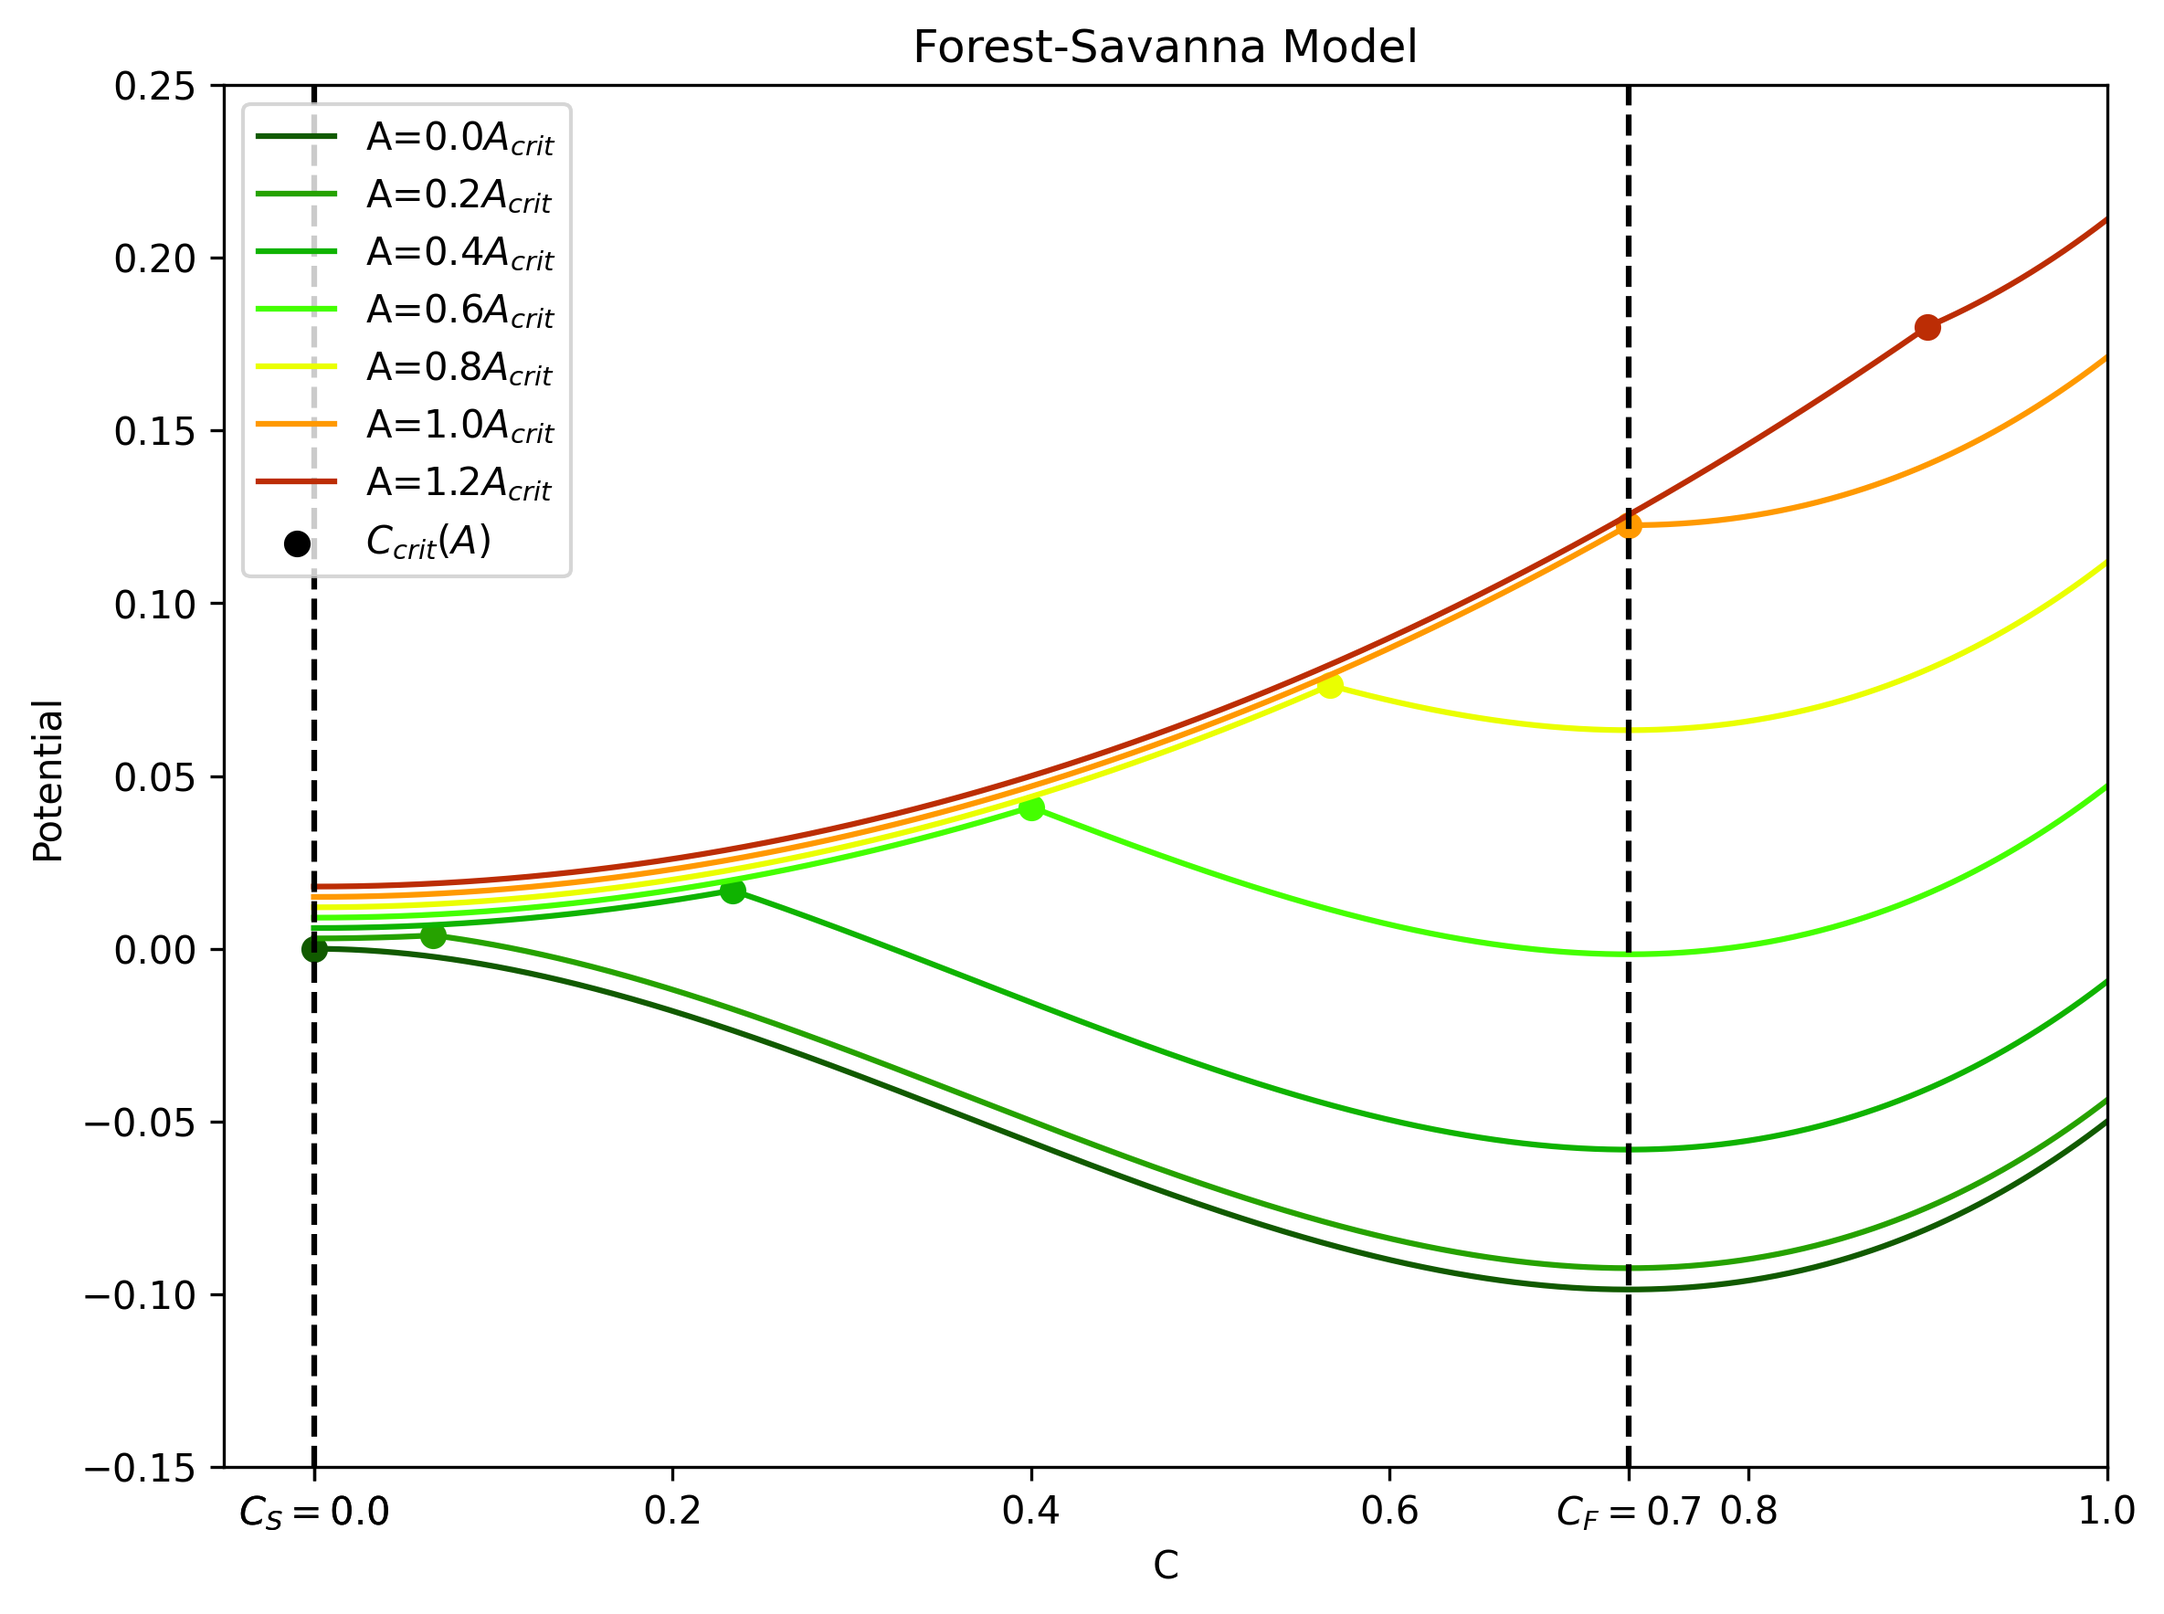
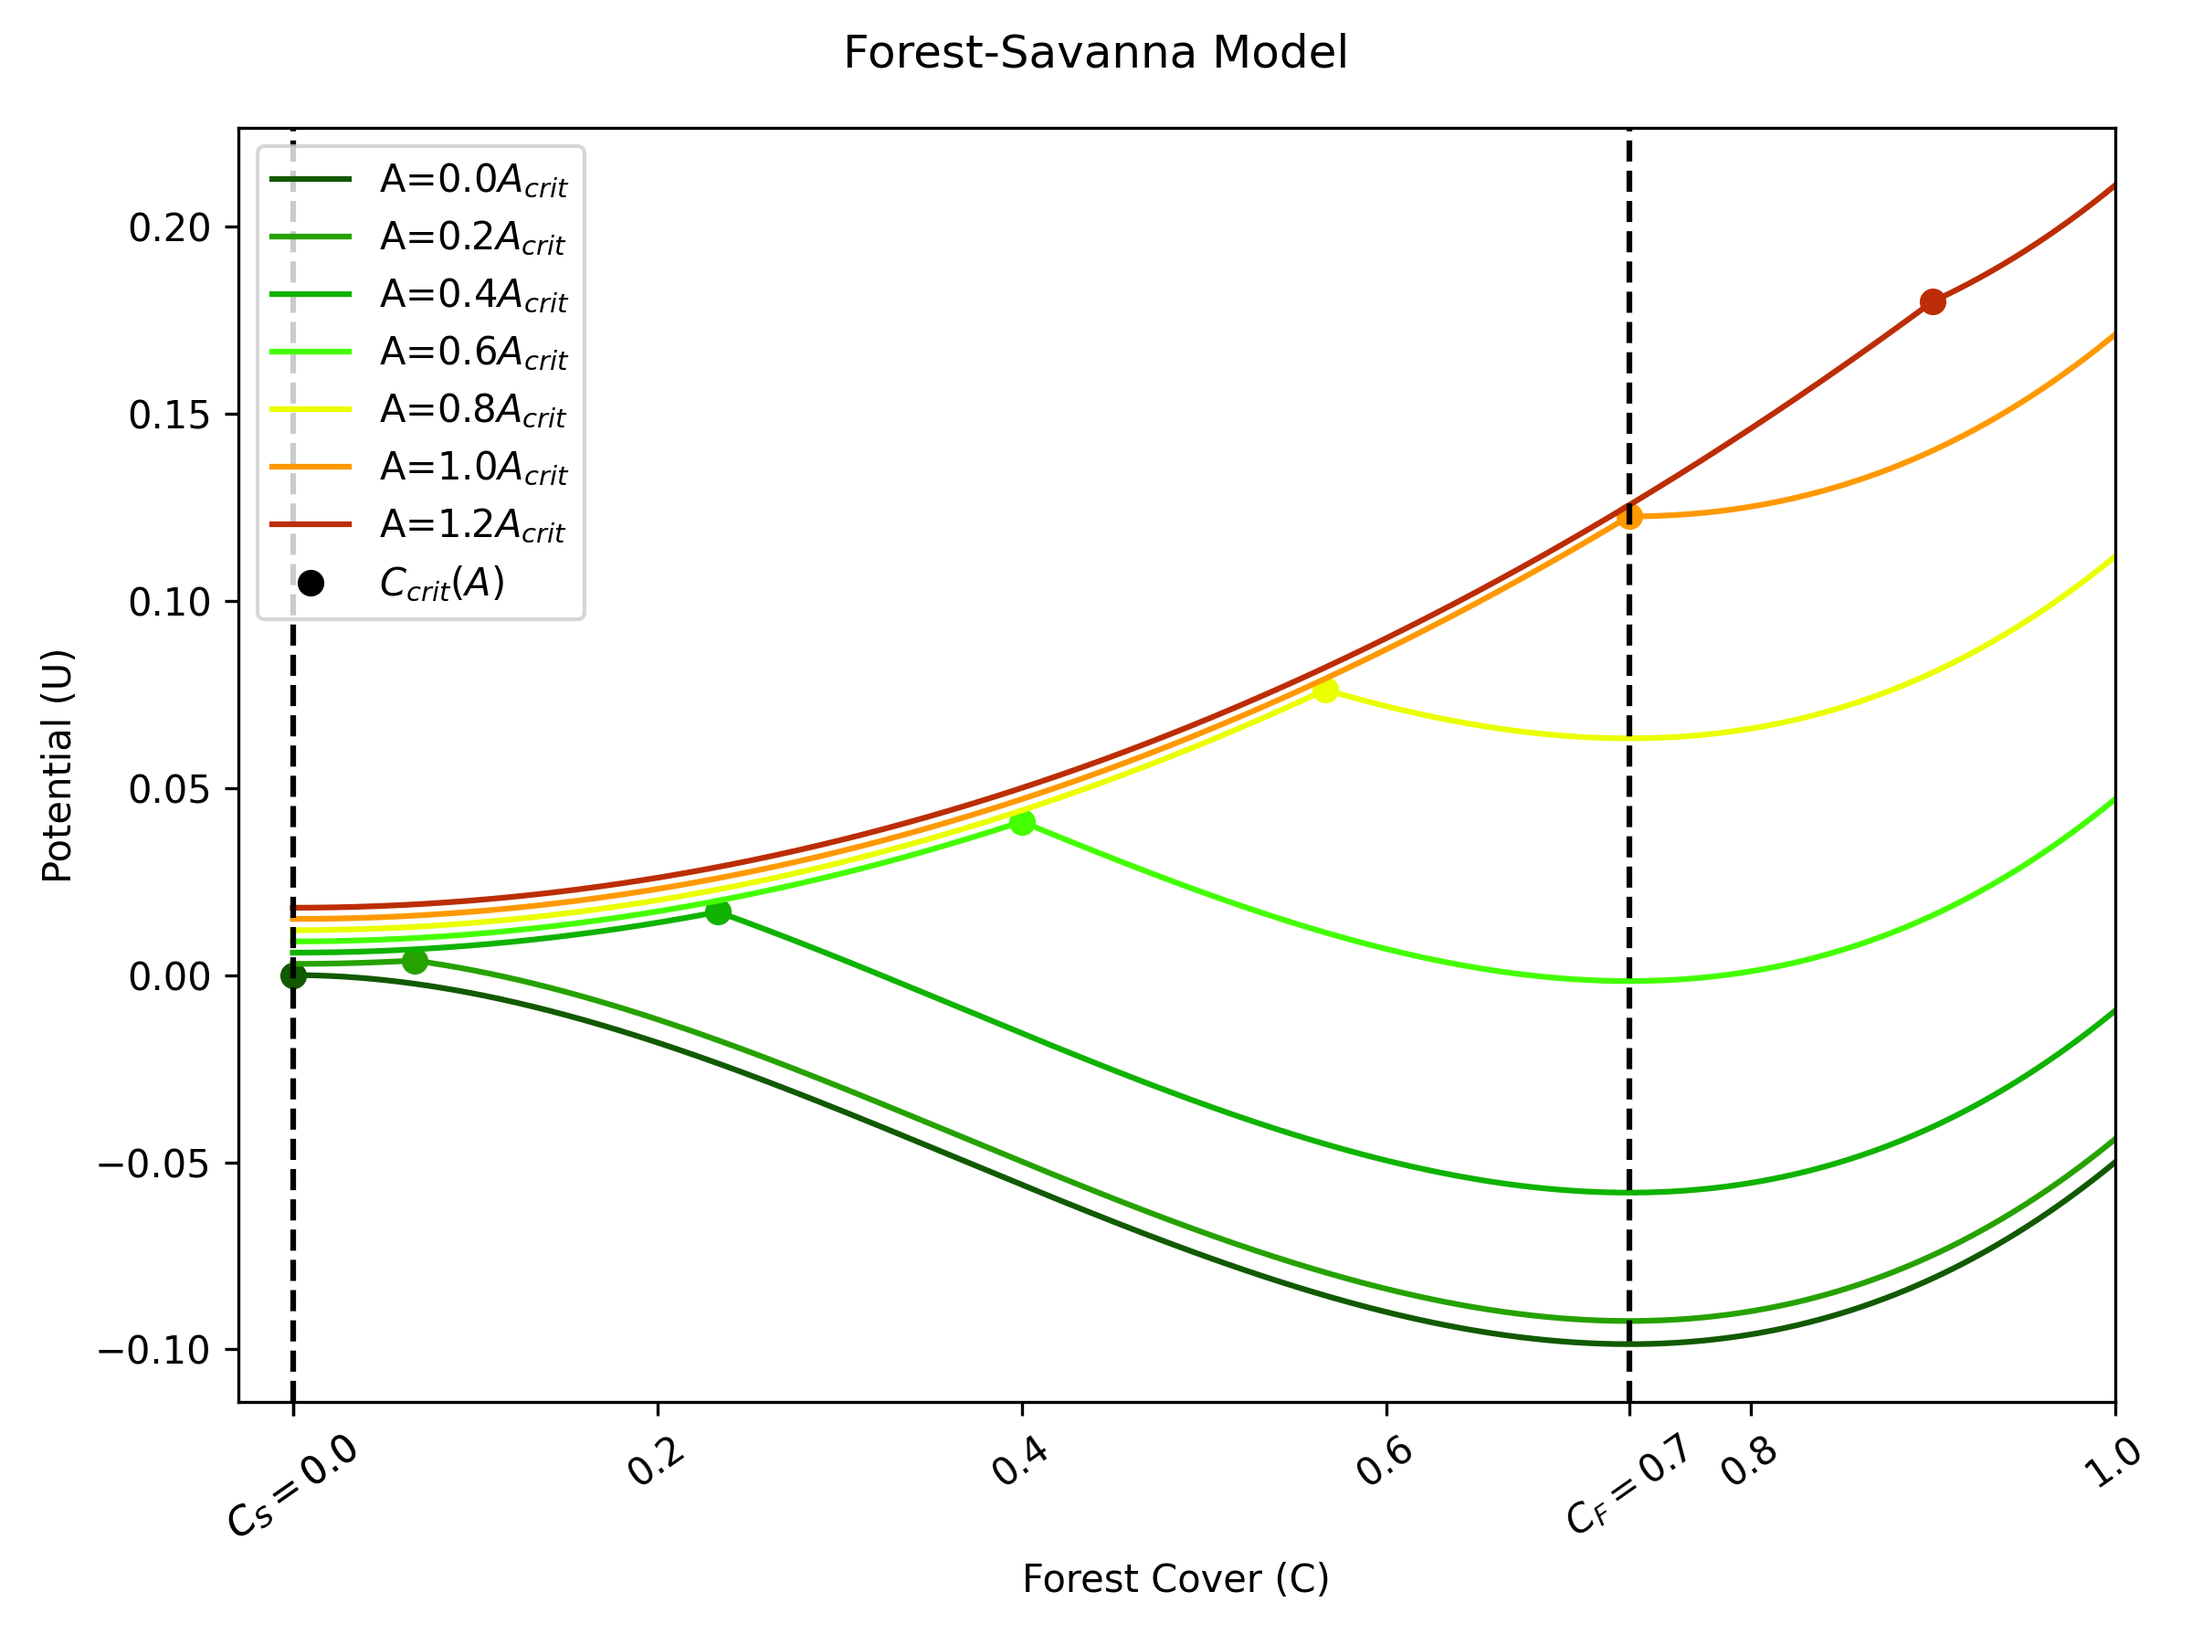
Alle figs über Funktionen

diff --git a/src/main.py b/src/main.py
@@ -16,7 +16,6 @@ def forest_cover_derivative(C_crit, x, r, C, A):
 
     return result
 
-
 def forest_cover(C_crit, x, r, m, b, C, A):
     """Forest cover state function."""
     C = np.asarray(C)
@@ -28,7 +27,6 @@ def forest_cover(C_crit, x, r, m, b, C, A):
     result[mask] = 1
 
     return result
-
 
 def calc_C_crit(A,m,b):
     """Critical forest cover threshold."""
@@ -43,40 +41,95 @@ def calc_A_crit(x,r,m,b):
 def calc_U(x,r,C_crit,C):
     return x/2*C**2+ (C>C_crit)*(r/3 * (C**3-C_crit**3) - r/2 *(C**2-C_crit**2))
 
-def make_plot_noarrows(figsize,A,C,func_cover,func_crit,cmap):
-            # detect global variable use
-        import inspect
-        globals_used = set(make_plot_noarrows.__code__.co_names) - set(locals())
-        print(globals_used)
-        AA, CC = np.meshgrid(A, C)
-        C_crit=func_crit(A)
-        State=func_cover(C_crit=C_crit,C=CC,A=AA)
-        fig, ax = plt.subplots(figsize=figsize)
-        ax.pcolormesh(AA, CC,State, shading='auto', cmap=cmap)
-        plt.plot(A,C_crit,color='white')
-        plt.plot([0,calc_A_crit(x,r,m,b)],[calc_C_F(x,r),calc_C_F(x,r)],color='white')
-        # plt.scatter([calc_A_crit(x,r,m,b)],[calc_C_F(x,r)],color='white')
-        # plt.plot([calc_A_crit(x,r,m,b),calc_A_crit(x,r,m,b)],[0,1],linestyle='--',color='white')
-        # plt.plot([0,1.3],[calc_C_F(x,r),calc_C_F(x,r)],linestyle='--',color='white')
-        # plt.ylim(0,1)
-        # plt.xlabel(xlabel)
-        # plt.ylabel(ylabel)
-        # plt.title(title)
-        # ticks =  [calc_A_crit(x,r,m,b)]
-        # labels = [ r"$A_{crit}$"]
-        # plt.xticks(ticks, labels)
-        # ticks = list(plt.yticks()[0]) + [calc_C_F(x,r)]
-        # labels = [*plt.yticks()[1], r"$C_F=$"+format(calc_C_F(x,r),".1f")]
-        # plt.yticks(ticks, labels)
-        # # cbar = plt.colorbar(mesh)
-        # # cbar.set_label(cbar_label)
-        # legend_handles = [
-        #     matplotlib.patches.Patch(color=cmap.colors[0], label="Savanna"),
-        #     matplotlib.patches.Patch(color=cmap.colors[1], label="Forest")
-        # ]
-        # plt.legend(handles=legend_handles, title="State", loc="upper right")
-        plt.tight_layout()
-        return fig
+def make_plot_noarrows(A,C,func_cover,func_crit,C_F,cmap=ListedColormap(['lightgray','grey']),xlabel=None,ylabel=None,title=None,figsize=None):
+        
+    AA, CC = np.meshgrid(A, C)
+    C_crit=func_crit(A)
+    A_crit=A[np.argmin(abs(C_crit-C_F))]
+    State=func_cover(C_crit=C_crit,C=CC,A=AA)
+
+    fig, ax = plt.subplots(figsize=figsize)
+    ax.pcolormesh(AA, CC,State, shading='auto', cmap=cmap)
+    ax.plot(A,C_crit,color='white')
+    ax.plot([0,A_crit],[C_F,C_F],color='white')
+    
+    ax.plot([A_crit,A_crit],[0,1],linestyle='--',color='white')
+    ax.plot([0,np.max(A)],[C_F,C_F],linestyle='--',color='white')
+
+    ax.scatter([A_crit],[C_F],color='white')
+    
+    xticks =  [A_crit]
+    xlabels = [ r"$A_{crit}$"]
+    ax.set_xticks(xticks, xlabels)
+    yticks = list(ax.get_yticks()) + [C_F]
+    ylabels = [*ax.get_yticklabels(), r"$C_F=$"+format(C_F,".1f")]
+    ax.set_yticks(yticks, ylabels)
+
+    ax.set_xlabel(xlabel)
+    ax.set_ylabel(ylabel)
+    fig.suptitle(title)
+
+    ax.set_ylim(0,1)
+
+    legend_handles = [
+        matplotlib.patches.Patch(color=cmap.colors[0], label="Savanna"),
+        matplotlib.patches.Patch(color=cmap.colors[1], label="Forest")
+    ]
+    ax.legend(handles=legend_handles, title="State", loc="upper right")
+    fig.tight_layout()
+    
+    return fig,ax
+
+def make_plot_arrows(A,C,func_cover,func_cover_derivative,func_crit,C_F,resolution_sparse=20,cmap=ListedColormap(['lightgray','grey']),xlabel=None,ylabel=None,title=None,figsize=None):
+        
+    fig,ax=make_plot_noarrows(figsize=figsize,
+                    A=A, C=C,
+                    func_cover=func_cover,
+                    func_crit=func_crit,
+                    C_F=C_F,
+                    cmap=cmap,
+                    xlabel=xlabel,
+                    ylabel=ylabel,
+                    title=title,)
+    
+    A_sparse=np.linspace(np.min(A),np.max(A),resolution_sparse)
+    C_sparse=np.linspace(np.min(C),np.max(C),resolution_sparse)
+    C_crit_sparse=func_crit(A_sparse)
+    AA_sparse, CC_sparse = np.meshgrid(A_sparse, C_sparse)
+    Direction_sparse=func_cover_derivative(C_crit=C_crit_sparse,C=CC_sparse,A=AA_sparse)
+    ax.quiver(AA_sparse,CC_sparse, 0*np.ones_like(AA_sparse), Direction_sparse)
+
+    return fig,ax
+
+def make_plot_potential(A_range,func_crit,func_potential,A_crit,C_F,colors,xlabel=None,ylabel=None,title=None,figsize=None,):
+
+    fig, ax = plt.subplots(figsize=figsize)
+
+    for A_int,i,col in zip(A_range,range(len(A_range)),colors):
+        C_crit_int=func_crit(A_int)
+        ax.plot(C,func_potential(C_crit=C_crit_int,C=C)+i*3e-3, label=r'A='+format(A_int/A_crit, ".1f")+r'$A_{crit}$', color=col)
+        ax.scatter(C_crit_int,func_potential(C_crit=C_crit_int,C=C_crit_int)+i*3e-3, color=col)
+    ax.axvline(C_F, linestyle='--', color='black')
+    ax.axvline(0, linestyle='--',color='black')
+
+    xticks = list(ax.get_xticks()) + [0.0, C_F]
+    xlabels = [*ax.get_xticklabels(), r"$C_S=$"+format(0.0,".1f"), r"$C_F=$"+format(C_F,".1f")]
+ 
+    ax.set_xticks(xticks, xlabels, rotation=35)
+    ax.set_xlim(-3e-2,1)
+
+    circle_marker = matplotlib.lines.Line2D([], [], marker='o',color='black',markersize=6,linestyle='None',label=r'$C_{crit}(A)$')
+    handles,_x = ax.get_legend_handles_labels()
+    handles.append(circle_marker)
+    ax.legend(handles=handles, loc='upper left')
+    
+    ax.set_xlabel(xlabel)
+    ax.set_ylabel(ylabel)
+    fig.suptitle(title)
+    fig.tight_layout()
+
+    return fig,ax
+
 # -------------------------------
 # Parameters
 # -------------------------------
@@ -93,23 +146,22 @@ C_min, C_max = 0, 1.0
 A = np.linspace(A_min, A_max, resolution)
 C = np.linspace(C_min, C_max, resolution)
 
-C_crit = calc_C_crit(A,m,b)
+A_range=np.linspace(0,calc_A_crit(x,r,m,b)*1.2,7)
 
-A_sparse=np.linspace(0,1.3,resolution_sparse)
-C_sparse=np.linspace(0,1.0,resolution_sparse)
-C_crit_sparse=calc_C_crit(A_sparse,m,b)
-
-# Create mesh grid
-# AA, CC = np.meshgrid(A, C)
-# AA_sparse, CC_sparse = np.meshgrid(A_sparse, C_sparse)
-
-# State=forest_cover(C_crit,x,r,m,b,CC,AA)
-# Direction_sparse=(forest_cover_derivative(C_crit_sparse,x,r,CC_sparse,AA_sparse))
 # -------------------------------
 # Plot settings
 # -------------------------------
 figsize = (8, 6)
 cmap = ListedColormap(["#ff9900","#006635"])
+colors=[
+    "#115a00",
+    "#26a200",
+    "#0fb300",
+    "#44ff00",
+    "#eaff00",
+    "#ff9900",
+    "#bc2d05",
+    ]
 output_file = "results/test.png"
 output_file_arrows = "results/test_arrows.png"
 output_file_potential = "results/test_potential.png"
@@ -118,79 +170,46 @@ xlabel = "Aridity (A)"
 ylabel = "Forest Cover (C)"
 title = "Forest-Savanna Model"
 
-# # Optional: Werte für Farblegende
-# cbar_label = "State (-1: low cover, 1: high cover)"
-
 # -------------------------------
-# Plot
+# Plotting
 # -------------------------------
-# plt.figure(figsize=figsize)
-# mesh = plt.pcolormesh(AA, CC, State, shading="auto", cmap=cmap)
-# plt.pcolormesh(AA, CC,State, shading='auto', cmap=cmap)#, norm=norm)
-# plt.plot(A,C_crit,color='white')
-# plt.plot([0,calc_A_crit(x,r,m,b)],[calc_C_F(x,r),calc_C_F(x,r)],color='white')
-# plt.scatter([calc_A_crit(x,r,m,b)],[calc_C_F(x,r)],color='white')
-# plt.plot([calc_A_crit(x,r,m,b),calc_A_crit(x,r,m,b)],[0,1],linestyle='--',color='white')
-# plt.plot([0,1.3],[calc_C_F(x,r),calc_C_F(x,r)],linestyle='--',color='white')
-# plt.ylim(0,1)
-# plt.xlabel(xlabel)
-# plt.ylabel(ylabel)
-# plt.title(title)
-# ticks =  [calc_A_crit(x,r,m,b)]
-# labels = [ r"$A_{crit}$"]
-# plt.xticks(ticks, labels)
-# ticks = list(plt.yticks()[0]) + [calc_C_F(x,r)]
-# labels = [*plt.yticks()[1], r"$C_F=$"+format(calc_C_F(x,r),".1f")]
-# plt.yticks(ticks, labels)
-# # cbar = plt.colorbar(mesh)
-# # cbar.set_label(cbar_label)
-# legend_handles = [
-#     matplotlib.patches.Patch(color=cmap.colors[0], label="Savanna"),
-#     matplotlib.patches.Patch(color=cmap.colors[1], label="Forest")
-# ]
-# plt.legend(handles=legend_handles, title="State", loc="upper right")
-# plt.tight_layout()
-fig=make_plot_noarrows(figsize=figsize,
-                       A=A, C=C,
-                       func_cover=partial(forest_cover,x=x,r=r,m=m,b=b),
-                       func_crit=partial(calc_C_crit,m=m,b=b),
-                       func_stable=partial(calc_C_F,x=x,r=r)
-                       cmap=cmap,)
+fig,_=make_plot_noarrows(A=A, C=C,
+                         func_cover=partial(forest_cover,x=x,r=r,m=m,b=b),
+                         func_crit=partial(calc_C_crit,m=m,b=b),
+                         C_F=calc_C_F(x=x,r=r),
+                         cmap=cmap,
+                         xlabel=xlabel,
+                         ylabel=ylabel,
+                         title=title,
+                         figsize=figsize,
+                        )
 fig.savefig(output_file, dpi=300)
-# plt.show()
+plt.close()
 
-# plt.quiver(AA_sparse,CC_sparse, 0*np.ones_like(AA_sparse), Direction_sparse)
+fig,_=make_plot_arrows(A=A, C=C,
+                       func_cover=partial(forest_cover,x=x,r=r,m=m,b=b),
+                       func_cover_derivative=partial(forest_cover_derivative, x=x, r=r),
+                       func_crit=partial(calc_C_crit,m=m,b=b),
+                       C_F=calc_C_F(x=x,r=r),
+                       cmap=cmap,
+                       xlabel=xlabel,
+                       ylabel=ylabel,
+                       title=title,
+                       figsize=figsize,
+                       )
+fig.savefig(output_file_arrows, dpi=300)
+plt.close()
 
-# plt.tight_layout(,
-# plt.savefig(output_file_arrows, dpi=300)
-
-# plt.cla()
-# A_range=np.linspace(0,calc_A_crit(x,r,m,b)*1.2,7)
-# colors=[
-#     "#bc2d05",
-#     "#ff9900",
-#     "#eaff00",
-#     "#44ff00",
-#     "#0fb300",
-#     "#26a200",
-#     "#115a00",
-#     ]
-# for A_int,i,col in zip(A_range,range(7),reversed(colors)):
-#     C_crit_int=calc_C_crit(A_int,m,b)
-#     plt.plot(C,calc_U(x,r,C_crit_int,C)+i*3e-3, label=r'A='+format(A_int/calc_A_crit(x,r,m,b), ".1f")+r'$A_{crit}$', color=col)
-#     plt.scatter(C_crit_int,calc_U(x,r,C_crit_int,C_crit_int)+i*3e-3, color=col)
-# plt.plot([calc_C_F(x,r),calc_C_F(x,r)],[-0.15,0.25], linestyle='--', color='black')
-# plt.plot([0,0],[-0.15,0.25], linestyle='--',color='black')
-
-# ticks = list(plt.xticks()[0]) + [0.0, calc_C_F(x,r)]
-# labels = [*plt.xticks()[1], r"$C_S=$"+format(0.0,".1f"), r"$C_F=$"+format(calc_C_F(x,r),".1f")]
-# plt.xticks(ticks, labels)
-# plt.xlim(-0.05,1)
-# plt.ylim(-0.15,0.25)
-# plt.scatter(10,10,color='black', label=r'$C_{crit}(A)$')
-# plt.legend(loc='upper left')
-# plt.xlabel('C')
-# plt.ylabel('Potential')
-# plt.title(title)
-# plt.tight_layout()
-# plt.savefig(output_file_potential, dpi=300, bbox_inches='tight')
+fig,_ = make_plot_potential(A_range=A_range,
+                            colors=colors,
+                            func_crit=partial(calc_C_crit,m=m,b=b),
+                            func_potential=partial(calc_U,x=x,r=r),
+                            A_crit=calc_A_crit(x=x,r=r,m=m,b=b),
+                            C_F=calc_C_F(x=x,r=r),
+                            xlabel='Forest Cover (C)',
+                            ylabel='Potential (U)',
+                            title=title,
+                            figsize=figsize,
+                            )
+fig.savefig(output_file_potential, dpi=300)
+plt.close()
